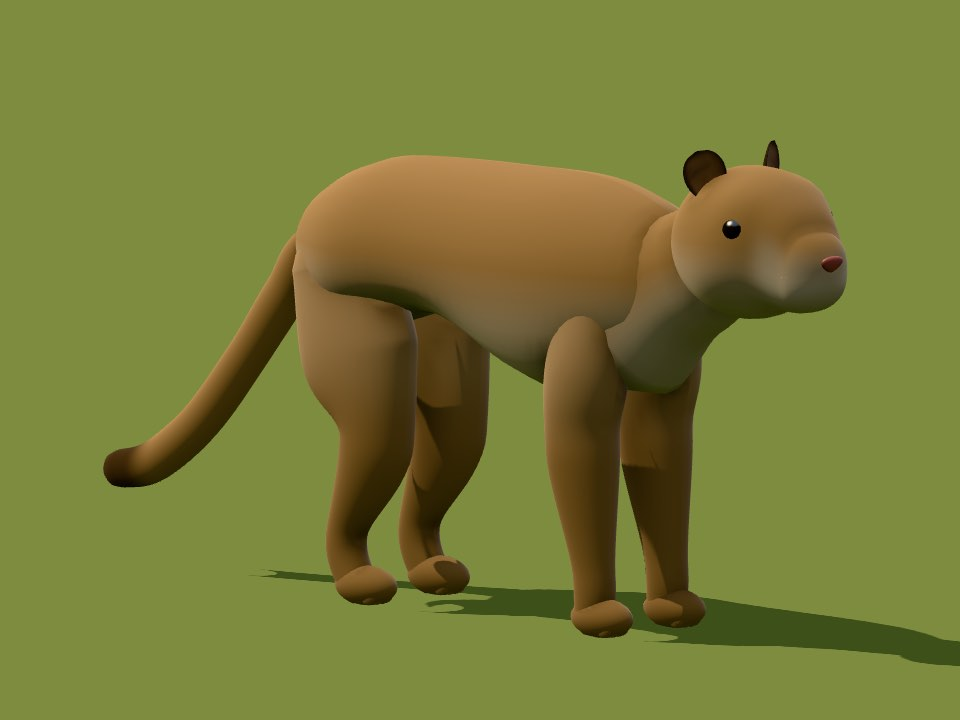
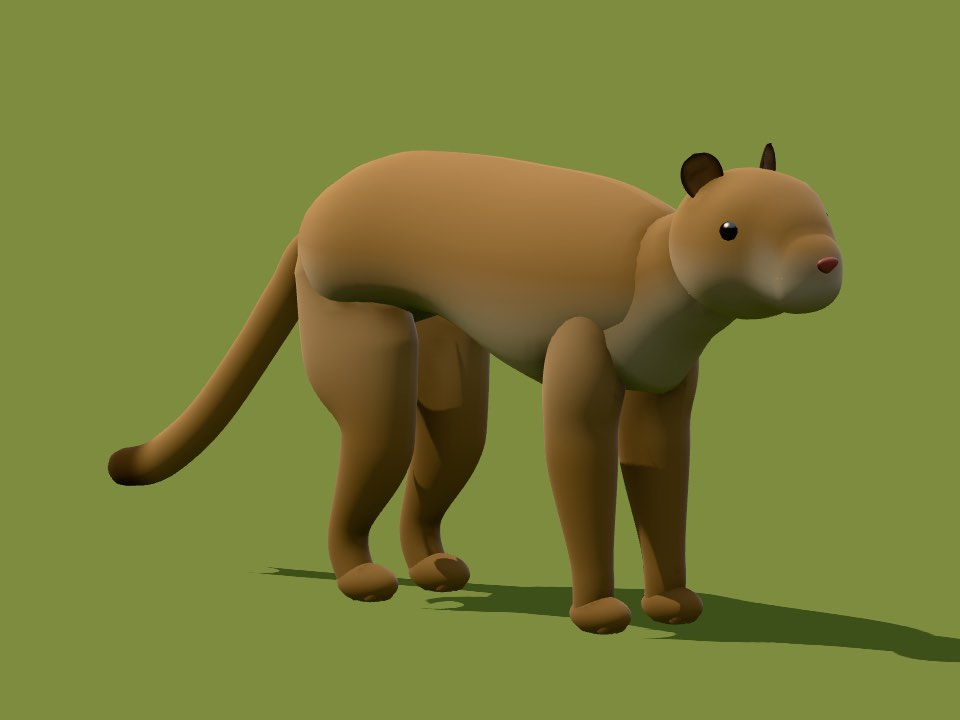
Cougar: fuller haunches and a higher arch over the loin (Cole)

diff --git a/js/render3d/animals/quadrupeds.js b/js/render3d/animals/quadrupeds.js
@@ -690,7 +690,7 @@ const MAMMALS = {
     const ring = (n, f) => pixelCoat('rings', solid(s.color), [n, 0.19, 0, 0, 2, 2, -2, 0], tmp.copy(col(s.color)).lerp(dk, f));
     return {
       H, leg, wide: lion && !s.mane ? 0.94 : k ? 0.9 : 1, chest: plain ? 0.84 : 1 - k * 0.03,
-      haunchBulk: plain ? 0.2 : undefined, arch: plain ? 0.06 : undefined, tuck: plain ? 0.5 : undefined, shoulderBulk: plain ? 0.06 : undefined, shoulderTaper: plain ? 1 : undefined, thighTaper: plain ? 0.35 : undefined, thighZ: plain ? 0.75 : undefined, pawH: plain ? 1.15 : undefined, pawW: plain ? 0.78 : undefined, // (an athletic cat: a defined haunch, a back rising gently over the loin, legs growing out of the body, compact paws)
+      haunchBulk: plain ? 0.3 : undefined, arch: plain ? 0.13 : undefined, tuck: plain ? 0.5 : undefined, shoulderBulk: plain ? 0.06 : undefined, shoulderTaper: plain ? 1 : undefined, thighTaper: plain ? 0.35 : undefined, thighZ: plain ? 0.75 : undefined, pawH: plain ? 1.15 : undefined, pawW: plain ? 0.78 : undefined, // (an athletic cat: a defined haunch, a back rising gently over the loin, legs growing out of the body, compact paws)
       shoulder: lion ? 0.09 : k ? 0.07 : 0.04, haunch: lion ? 0.94 : k ? 0.9 : plain ? 0.82 : 1, sag: lion ? 0.01 : k ? -0.02 : 0.04,
       legR0: H * (lion ? (s.mane ? 0.19 : 0.18) : k ? 0.205 : s.cheetah ? 0.16 : plain ? 0.2 : 0.22),
       legR1: H * (lion ? 0.085 : k ? 0.09 : s.cheetah ? 0.09 : plain ? 0.085 : 0.14), // (a plain cat's slim ankle under a full forearm and thigh)

diff --git a/docs/ideas/2026-11-27-cougar-face/README.md b/docs/ideas/2026-11-27-cougar-face/README.md
@@ -65,3 +65,4 @@ Its root now sits lower and further forward in the chest (`neckLow` 0.5) and the
 slimmer (0.27 H).
 Then "a hunch back": the round head hung below the shoulders. It's carried higher (by + 0.26 H, was 0.14;
 the week-old one was 0.38), level with the back; flattening the back's arch made no visible difference.
+Then the haunches showing and an arched back (Cole): `haunchBulk` 0.2 to 0.3, `arch` 0.06 to 0.13.
